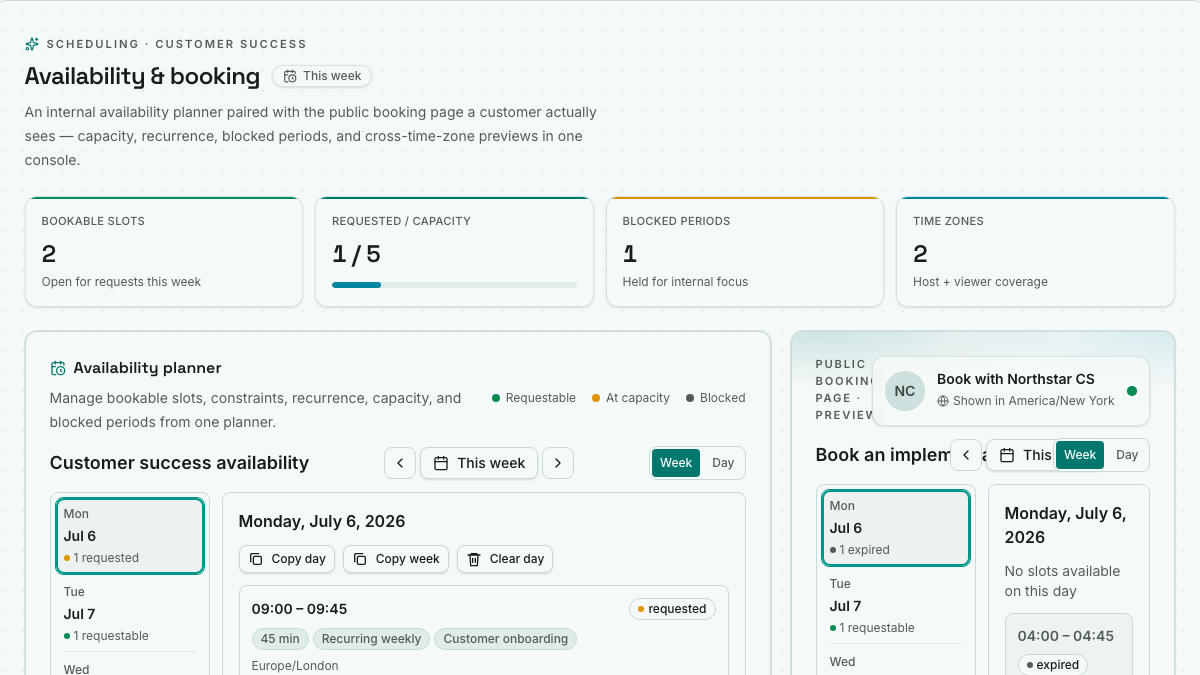
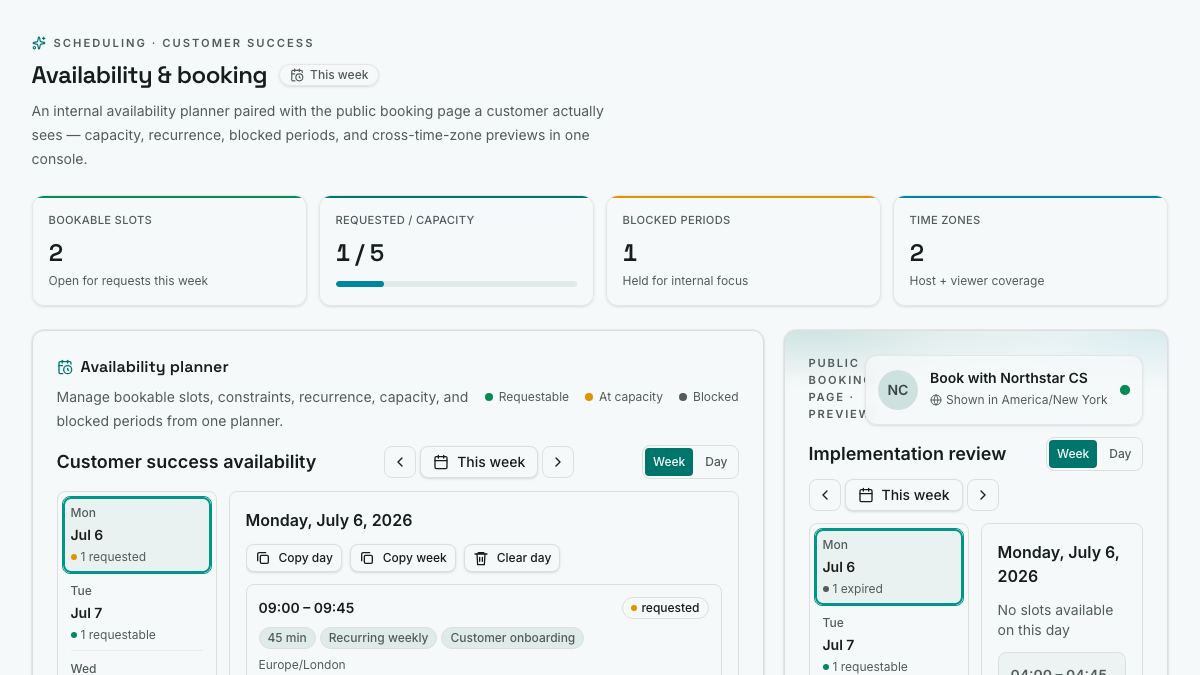
fix: refine scheduler public preview

diff --git a/e2e/showcase-recipe-full-page.spec.ts b/e2e/showcase-recipe-full-page.spec.ts
@@ -421,4 +421,39 @@ test.describe("showcase full-page recipe shell", () => {
     ).toBeVisible();
     await expect(popular).toBeVisible();
   });
+
+  test("keeps Scheduler public-preview controls in distinct rows", async ({
+    page,
+  }) => {
+    await page.setViewportSize({ width: 1440, height: 900 });
+    await page.goto("/recipes/scheduler-and-booking");
+
+    const preview = page.locator("[data-scheduler-public-preview]");
+    const title = preview.locator('[data-slot="slot-picker-title"]');
+    const viewSwitch = preview.locator(
+      '[data-slot="slot-picker-view-switch"]',
+    );
+    const periodControls = preview
+      .getByRole("button", { name: "Previous week" })
+      .locator("..");
+    await expect(title).toBeVisible();
+    await expect(viewSwitch).toBeVisible();
+    await expect(periodControls).toBeVisible();
+
+    const titleBounds = await title.boundingBox();
+    const viewBounds = await viewSwitch.boundingBox();
+    const periodBounds = await periodControls.boundingBox();
+    expect(titleBounds).not.toBeNull();
+    expect(viewBounds).not.toBeNull();
+    expect(periodBounds).not.toBeNull();
+    expect(titleBounds!.x + titleBounds!.width).toBeLessThanOrEqual(
+      viewBounds!.x,
+    );
+    expect(periodBounds!.y).toBeGreaterThanOrEqual(
+      Math.max(
+        titleBounds!.y + titleBounds!.height,
+        viewBounds!.y + viewBounds!.height,
+      ),
+    );
+  });
 });

diff --git a/apps/showcase/src/examples/recipes/scheduler-and-booking.tsx b/apps/showcase/src/examples/recipes/scheduler-and-booking.tsx
@@ -447,6 +447,7 @@ function BookingWorkflow({ presentation = "embedded" }: RecipePreviewProps) {
           <aside className="space-y-5">
             {/* Booking preview — public booking page */}
             <Card
+              data-scheduler-public-preview
               shadow="sm"
               className="ring-border/60 relative overflow-hidden ring-1 backdrop-blur-sm"
             >
@@ -488,7 +489,8 @@ function BookingWorkflow({ presentation = "embedded" }: RecipePreviewProps) {
               </CardHeader>
               <CardContent className="relative">
                 <SlotPicker
-                  title="Book an implementation review"
+                  title="Implementation review"
+                  className="[&_[data-slot=slot-picker-toolbar]]:grid-cols-[minmax(0,1fr)_auto] [&_[data-slot=slot-picker-toolbar]>div:nth-child(2)]:col-span-2 [&_[data-slot=slot-picker-toolbar]>div:nth-child(2)]:row-start-2 [&_[data-slot=slot-picker-toolbar]>div:nth-child(2)]:justify-start [&_[data-slot=slot-picker-view-switch]]:col-start-2 [&_[data-slot=slot-picker-view-switch]]:row-start-1"
                   slots={slots}
                   viewerTimeZone={VIEWER_ZONE}
                   defaultFocusedDate="2026-07-06"

diff --git a/docs/showcase/recipe-alignment-follow-up-issues.md b/docs/showcase/recipe-alignment-follow-up-issues.md
@@ -23,7 +23,7 @@
 ## Local Issue 3 — Scheduler Public Preview Header
 
 - GitHub: [#408](https://github.com/parveshh/dethink-components/issues/408).
-- Status: Blocked by Local Issue 2 in the branch stack.
+- Status: Completed.
 - Keep the booking title, navigation, and Week/Day controls legible in the narrow preview rail.
 - Verify the main planner width and the public preview at desktop and mobile sizes.
 
